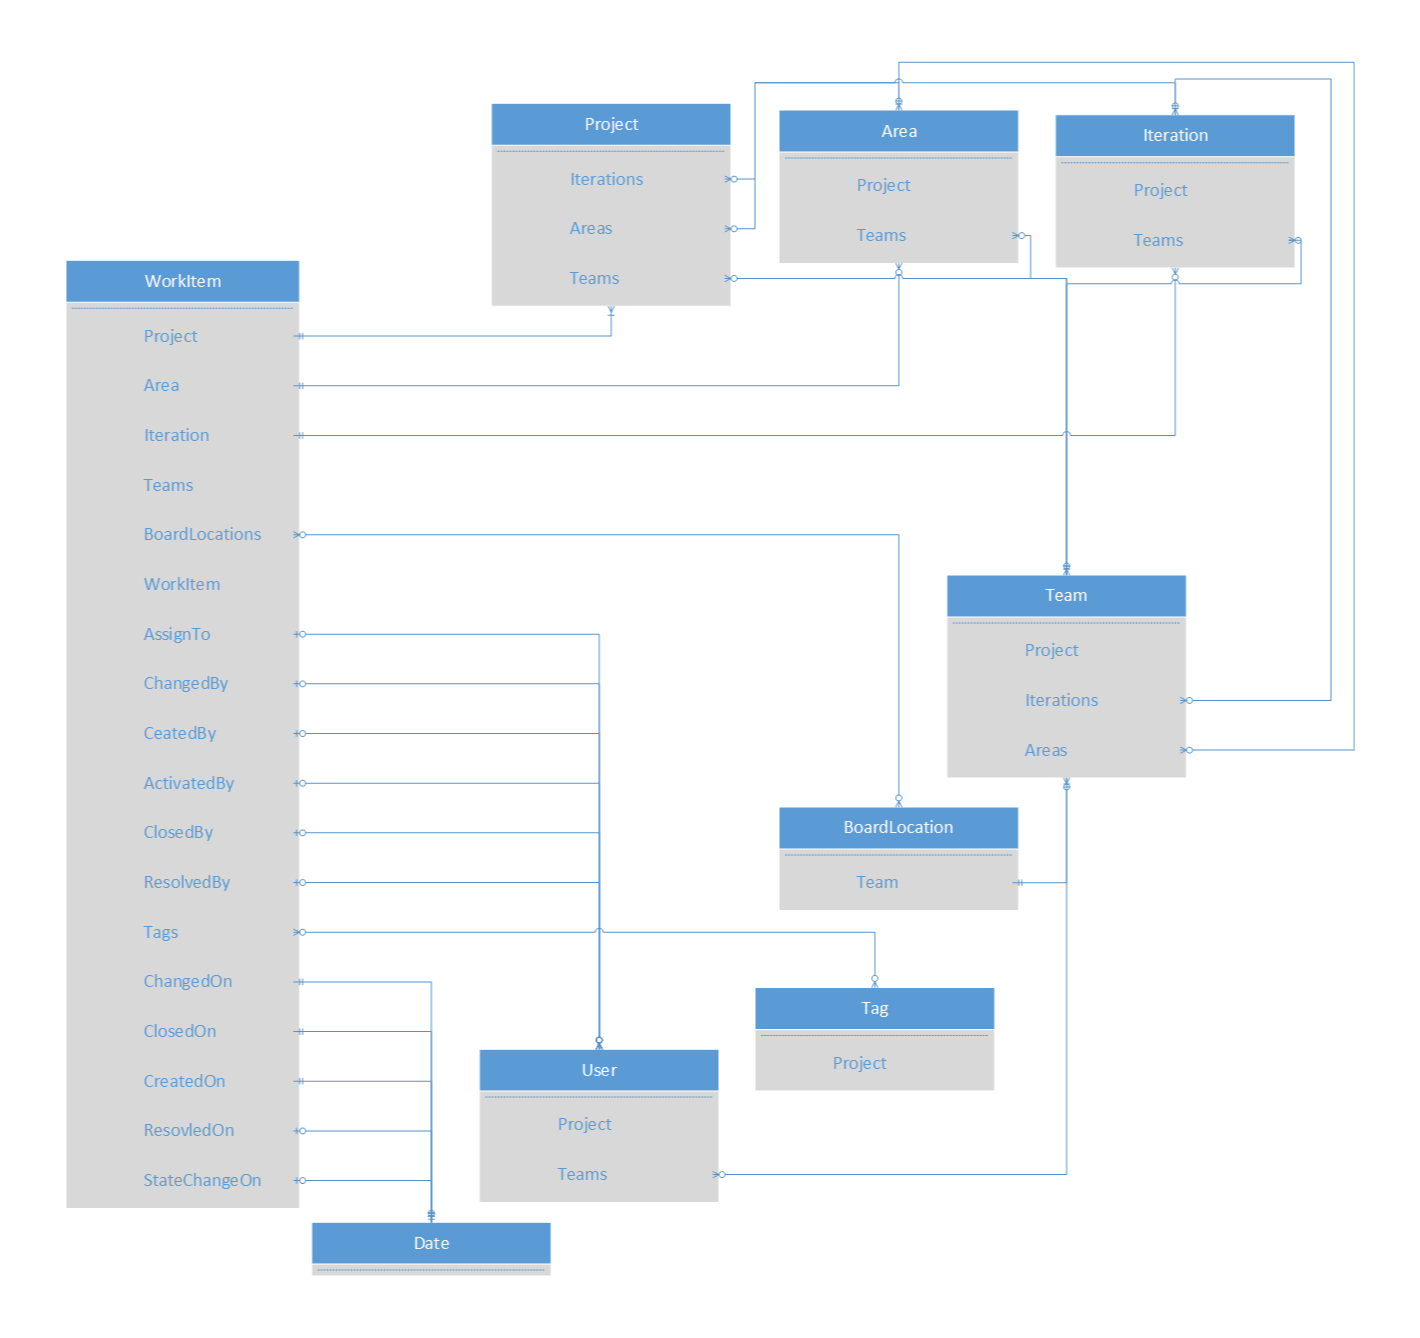
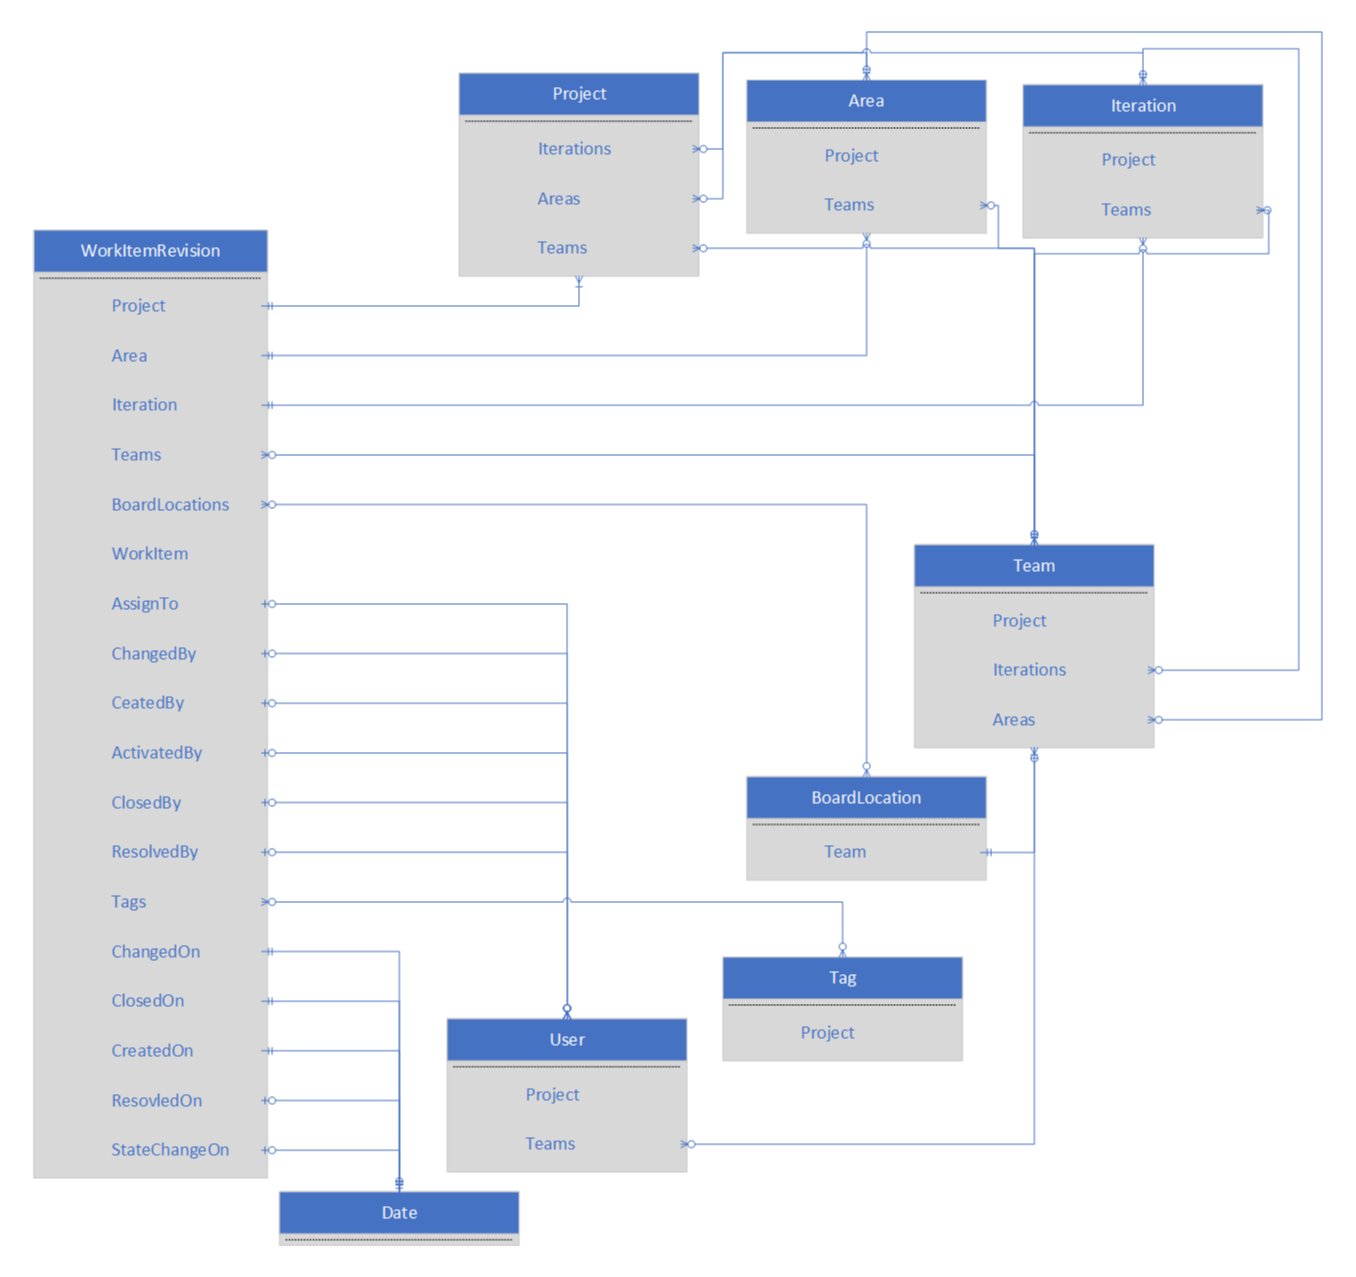
adding more content

Changed region(s): [[0.0, 0.0305, 0.9602, 0.9773]]

diff --git a/docs/report/analytics/data-model-analytics-service.md b/docs/report/analytics/data-model-analytics-service.md
@@ -1,6 +1,6 @@
 ---
 title: Data model for the Analytics Service for VSTS  
-description: Describes the data sets, counts and calculated measures provided with the Analytics service for Visual Studio Team Services (VSTS) 
+description: Describes the data entities and relationships provided by the Analytics service for Visual Studio Team Services (VSTS) 
 ms.prod: vs-devops-alm
 ms.technology: vs-devops-reporting
 ms.assetid: 032FB76F-DC43-4863-AFC6-F8D67963B177  
@@ -16,7 +16,7 @@ ms.date: 08/04/2017
 [!INCLUDE [temp](../_shared/analytics-preview.md)]
 
 
-The Analytics service data model consists of data sets, counts, and measures, as well as how data sets relate to each other.  
+The Analytics service data model consists of data entities that are related to each other with navigation properties. Each entity contains attributes and measures than can be filtered, aggregated, and summarized.  
 
 ##Entities  
 
@@ -44,11 +44,21 @@ The data model contains the following entity sets:
 
 ##Relationships
 
-Entities can be combined using relationships to compute more complex query results. Within an OData query relationships can be followed using navigation properties in the expand, filter, or groupby statements. Entity relationships are also exposed as foreign keys so that external tools can join entities
+Entities can be combined using relationships to compute more complex query results. Within an OData query relationships can be followed using navigation properties in the expand, filter, or groupby statements.
 
 Some navigation properties result in a single entity, while others result in sets of entities. In the following diagram, entities and their navigation properties are shown.  For clarity, some derivitive entities and relationships have been omitted.
 
 ![Analytics Service Data Model](_img/datamodel.png)
+
+##Relationship Keys
+
+ Entity relationships are also exposed as foreign keys so that external tools can implement joins. These fields have the suffix "SK", and are either integer or GUID data types. Date properties will have corresponding integer date key properties that use the following format: YYYYMMDD
+
+##Attributes and Measures
+
+Data entites contain attribute fields that can be used to filter and summarize query results...
+
+
 
 
 ##Related notes 
